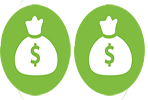
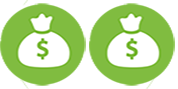
test

diff --git a/pages/gaming-desks/best-gaming-desks.md b/pages/gaming-desks/best-gaming-desks.md
@@ -254,7 +254,7 @@ This desk is versatile and looks wonderful. It'll be the perfect addition to you
 	<tr>
 		<td>L-Shaped</td>
 		<td>4.4/5</td>
-		<td><img class="money-small" src="/img/$$.png" /></td>
+		<td><img class="money" src="/img/$$.png" /></td>
 		<td><a href="http://amzn.to/2xR7sCn"><img class="table-image" src="/img/cart.png" /></a></td>
 	</tr>
 </table>
